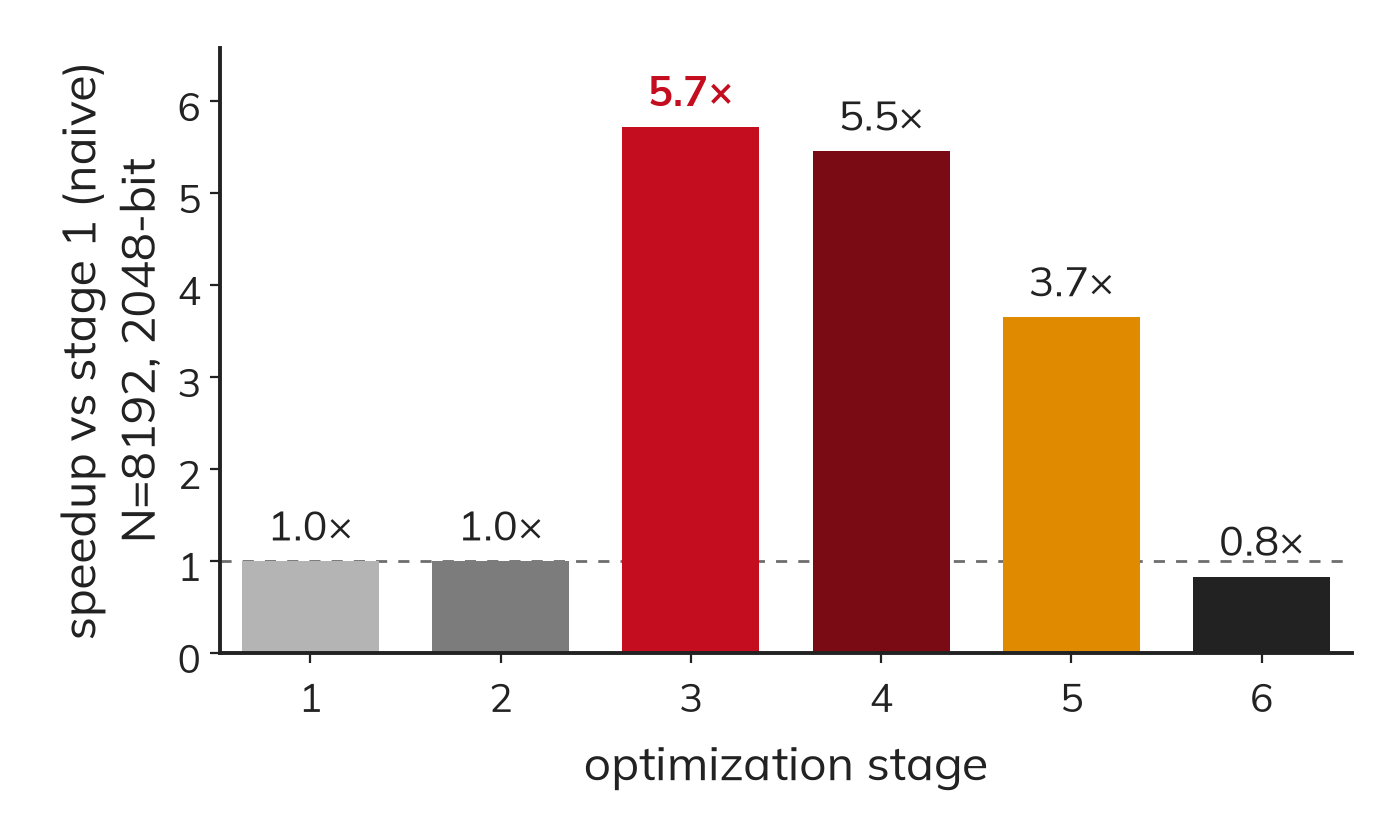
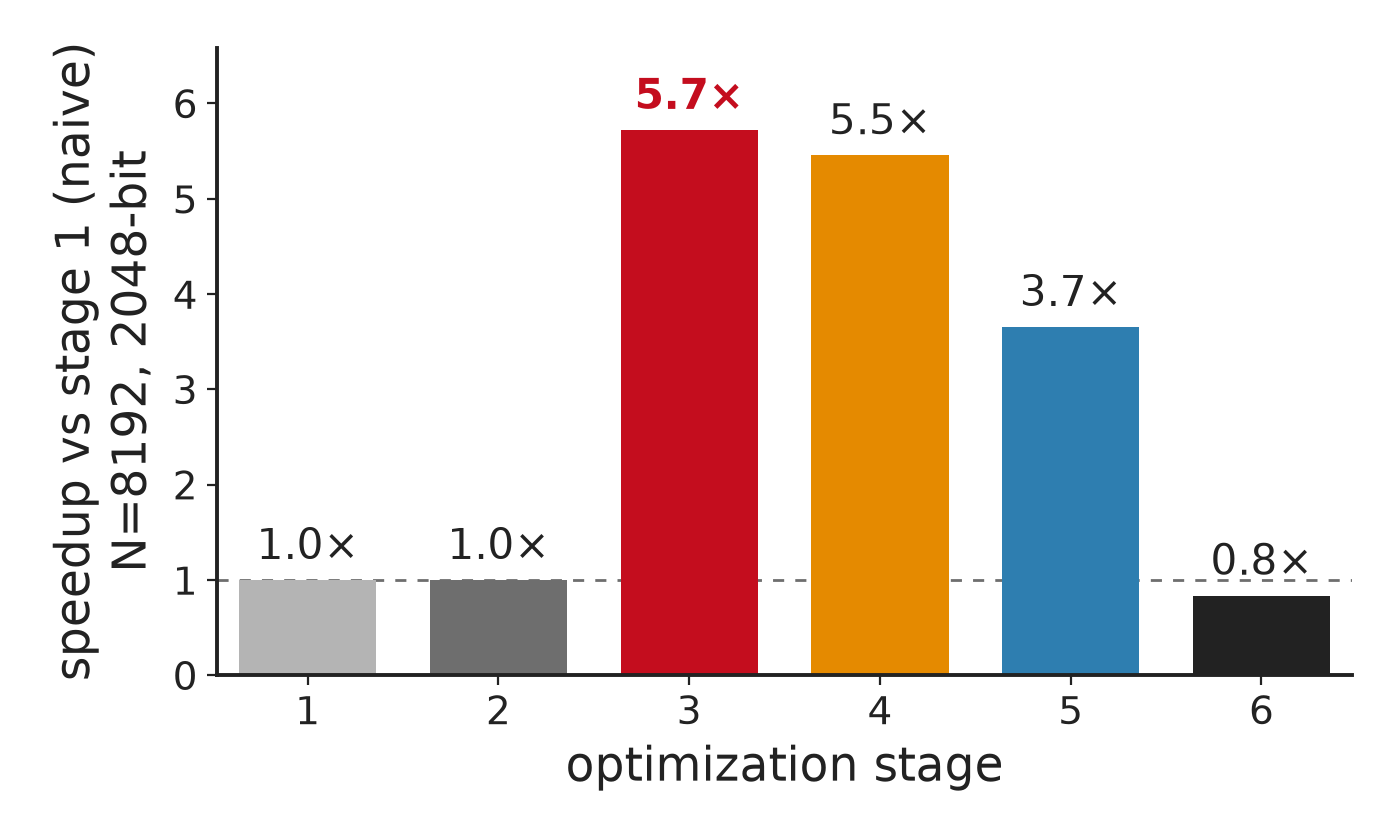
modify results

diff --git a/benchmark/plot_results.py b/benchmark/plot_results.py
@@ -25,10 +25,10 @@ TU_DARK = "#222222"
 TU_GREY = "#6E6E6E"
 TU_LINE = "#D2D2D2"
 
-# Stage colours: baselines in grey, the coalescing win in TU red, the rest in a
-# muted red/amber/dark family so the whole plot stays on-brand (no rainbow).
-STAGE_COLORS = {1: "#B4B4B4", 2: "#7C7C7C", 3: TU_RED,
-                4: "#7A0A13", 5: "#E08A00", 6: TU_DARK}
+# Stage colours: baselines in grey, the coalescing win in TU red, then a small
+# distinct set (amber, blue) so no two stages read alike, ending near-black.
+STAGE_COLORS = {1: "#B4B4B4", 2: "#6E6E6E", 3: TU_RED,
+                4: "#E58A00", 5: "#2E7EB0", 6: TU_DARK}
 
 
 def setup_theme():